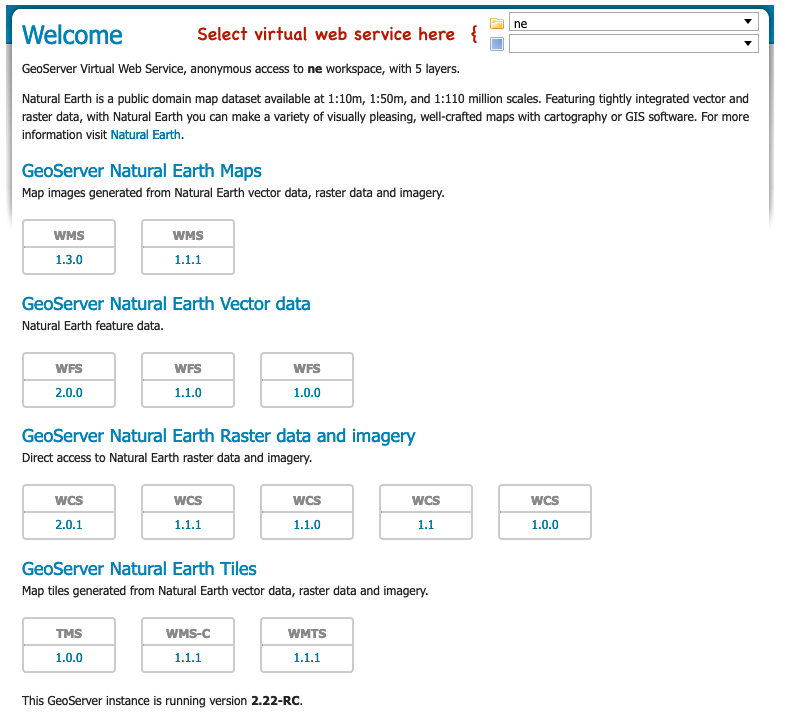
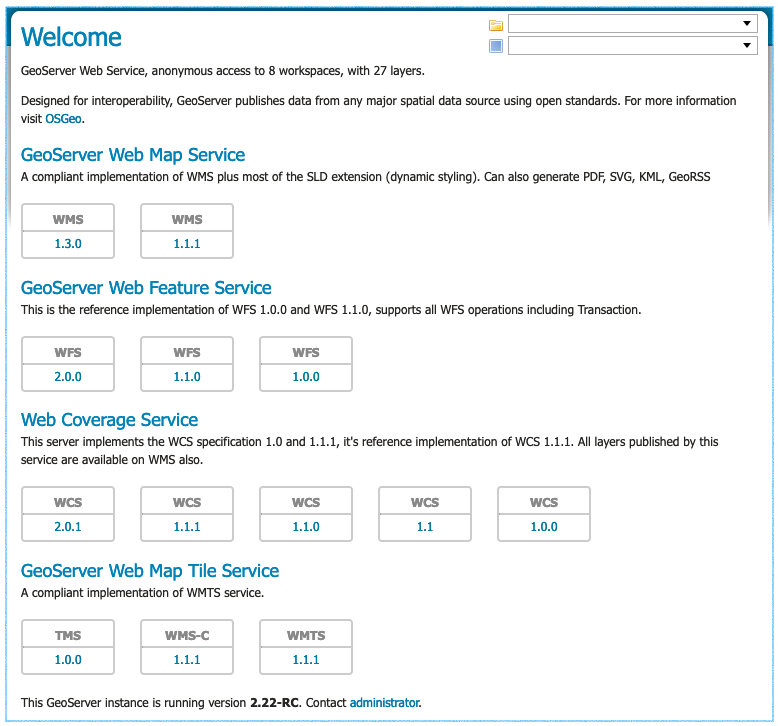
Add image for disabling gloabl settings

Changed region(s): [[0.0, 0.0, 1.0, 1.0], [0.4627, 0.3983, 0.8021, 0.4596], [0.7404, 0.5822, 0.9254, 0.6128]]

diff --git a/_posts/2022-10-19-geoserver-2-22-RC-released.md b/_posts/2022-10-19-geoserver-2-22-RC-released.md
@@ -77,17 +77,21 @@ You can book mark or share this page (which is great for providing a team or pro
 
 For more information on this functionality see [workspace web services](https://docs.geoserver.org/latest/en/user/webadmin/welcome.html#workspace-web-services) and [layer web services](https://docs.geoserver.org/latest/en/user/webadmin/welcome.html#layer-web-services) in the user manual.
 
-* Using a workspace virtual web service is great if you are setting up a GIS project, supporting a web application, or providing GIS services for a team. This is especially true as it is [straight forward](https://docs.geoserver.org/latest/en/user/data/webadmin/workspaces.html#security) to manage security on a workspace basis.
-* Using a layer virtual web service is great when registering a layer with a catalogue service such as GeoNetwork. It provides a web service that can only be used to access a single layer.
+Using a **workspace virtual web service** is great if you are setting up a GIS project, supporting a web application, or providing GIS services for a team. This is especially true as it is [straight forward](https://docs.geoserver.org/latest/en/user/data/webadmin/workspaces.html#security) to manage security on a workspace basis.
 
-For the technical background on this feature see [Virtual web services](https://docs.geoserver.org/latest/en/user/configuration/virtual-services.html) in the user manual. This functionality has been present in GeoServer for a long time; but because it required hand editing URLs many users were not aware of this functionality.
+![Welcome layer](/img/posts/2.22/welcome-workspace-header.png) <br/>
 
+Using a **layer virtual web service** is great when registering a layer with a catalogue service such as GeoNetwork. It provides a web service that can only be used to access a single layer.
+
+![Welcome layer](/img/posts/2.22/welcome-layer-header.png) <br/>
+
+For the technical background on this feature see [Virtual web services](https://docs.geoserver.org/latest/en/user/configuration/virtual-services.html) in the user manual. This functionality has been present in GeoServer for a long time; but because it required hand editing URLs many users were not aware of capability.
 
 **Contact Information and Service Metadata**
 
 Contact information now includes a welcome message to be used as introduction on the welcome page for the global services. Editing the contact details for a workspace will override this introduction for visitors viewing the workspace services.
 
-To customize the welcome page header introduction contact information **welcome** is required. To customize the welcome page header *For more information visit* link both  **organization** and **online resource** is required. If this information is not provided the sentence linking to your organization will not be shown in the header.
+To customize the welcome page header introduction the **welcome** field is used. To append a welcome page header *For more information visit* link both  **organization** and **online resource** are required.
 
 ![Contact Information : Organization](/img/posts/2.22/contact-organization.png) <br/>
 
@@ -95,11 +99,15 @@ To customize the welcome page footer *Contact administrator* link contact inform
 
 ![Contact Information : Primary Contact](/img/posts/2.22/contact-primary.png) <br/>
 
-To customize the service heading and description shown vist the service configuration page. Edit the service **title** and **abstract** and the change will be reflected on the welcome page (and in the GetCapabilities document shared with web clients). Disabled services are not available and not listed. Disabling global services prevents any services from being accessable or listed on the initial welcome page.
+To customize the service heading and description shown vist a service configuration page. Edit the service **title** and **abstract** and the change will be reflected on the welcome page (and in the GetCapabilities document shared with web clients). Disabled services are not available and not listed.
 
 ![WMS : Service Metadata](/img/posts/2.22/wms-service.png) <br/>
 
-These fields, including the email address, make use of GeoServer internationalization facilities allowing the welcome page to be customized for all your visitors.
+Disabling **global services** prevents any services from being accessable or listed on the initial welcome page.
+
+![Disable global services](/img/posts/2.22/global-services.png) <br/>
+
+All these fields, including the email address, make use of GeoServer [internationalization](https://docs.geoserver.org/latest/en/user/configuration/internationalization/index.html) allowing the welcome page to be customized for all your visitors.
 
 For background information visit [GSIP-202](https://github.com/geoserver/geoserver/wiki/GSIP-202). Thanks to Jody Garnett and the GeoCat Live product for these improvements.
 
@@ -112,7 +120,7 @@ GeoServer performs some initial setup when setting up a data directory for the f
 
 In the past this initialization produced some warnings (when checking for files that were not yet created). These warnings were misleading giving the impression that GeoServer was installed incorrectly.
 
-Startup logs now use the ``CONFIG`` log level during startup (previously ``INFO`` was used).
+Please note that startup logs now use the ``CONFIG`` log level during startup one level lower thatn ``INFO``. This change allows logging profiles to filter out the startup process while still retaining information messages on service operation and use.
 
 ### Logging profile date formatting updates
 
